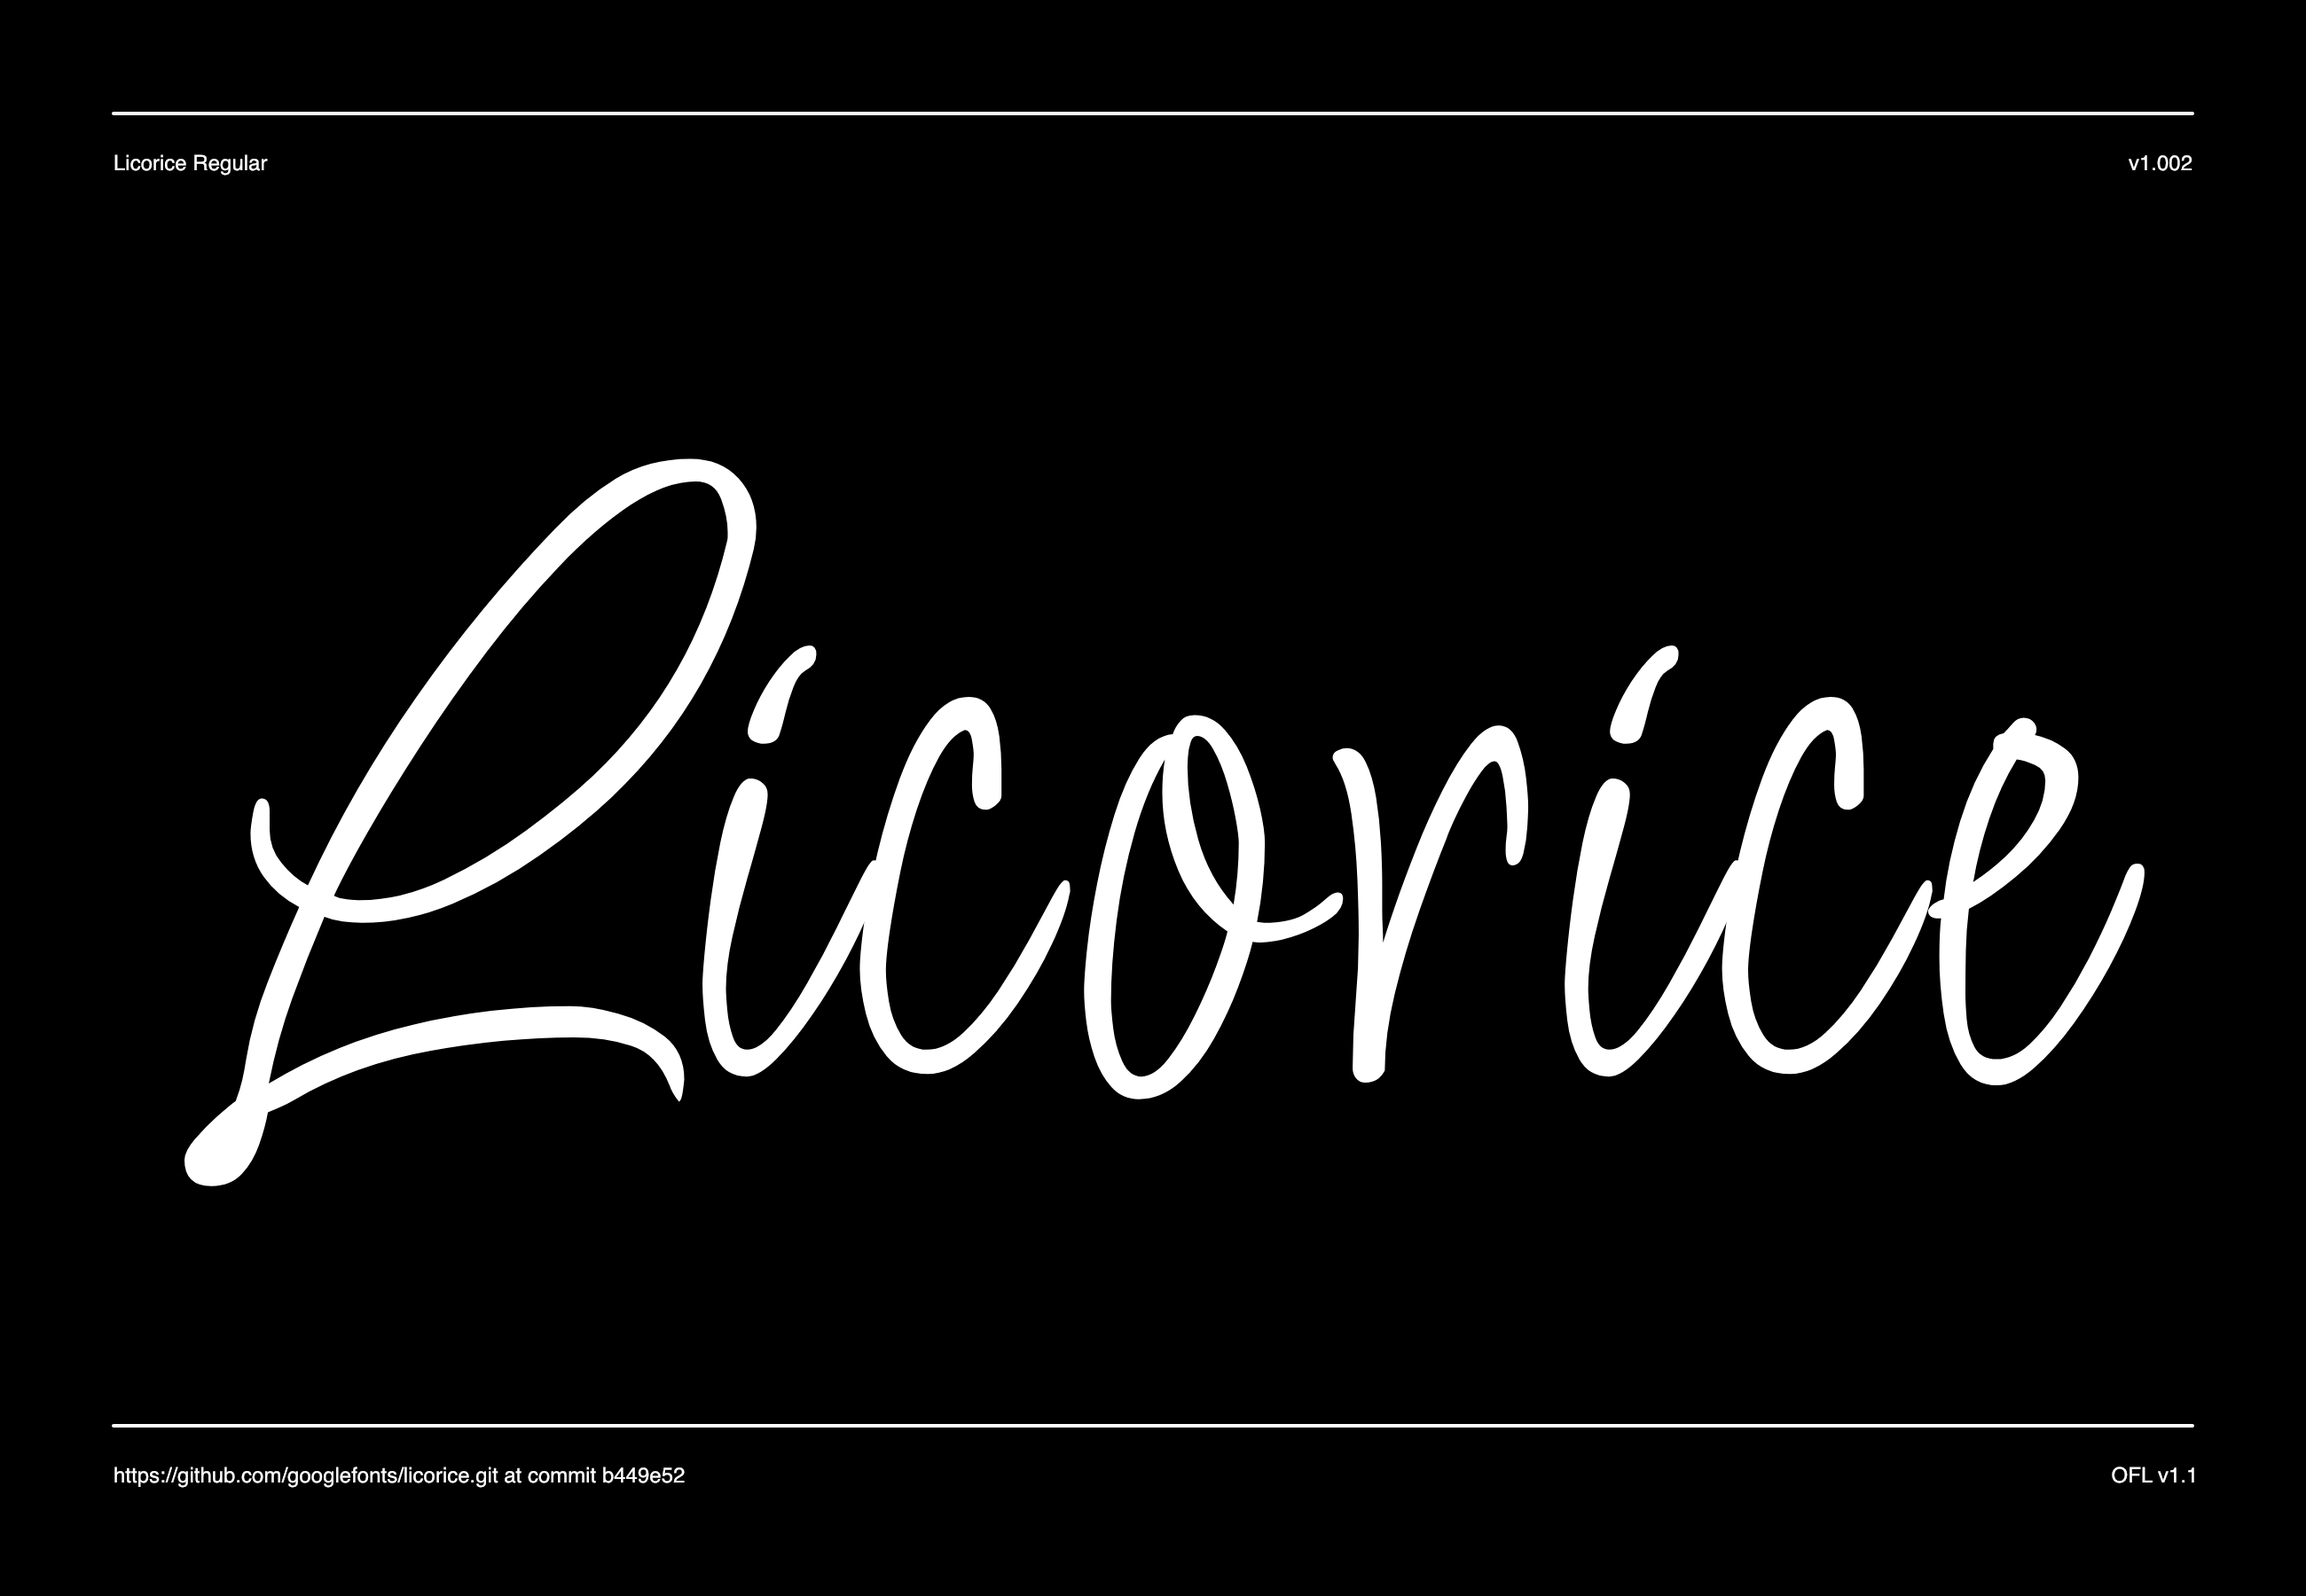
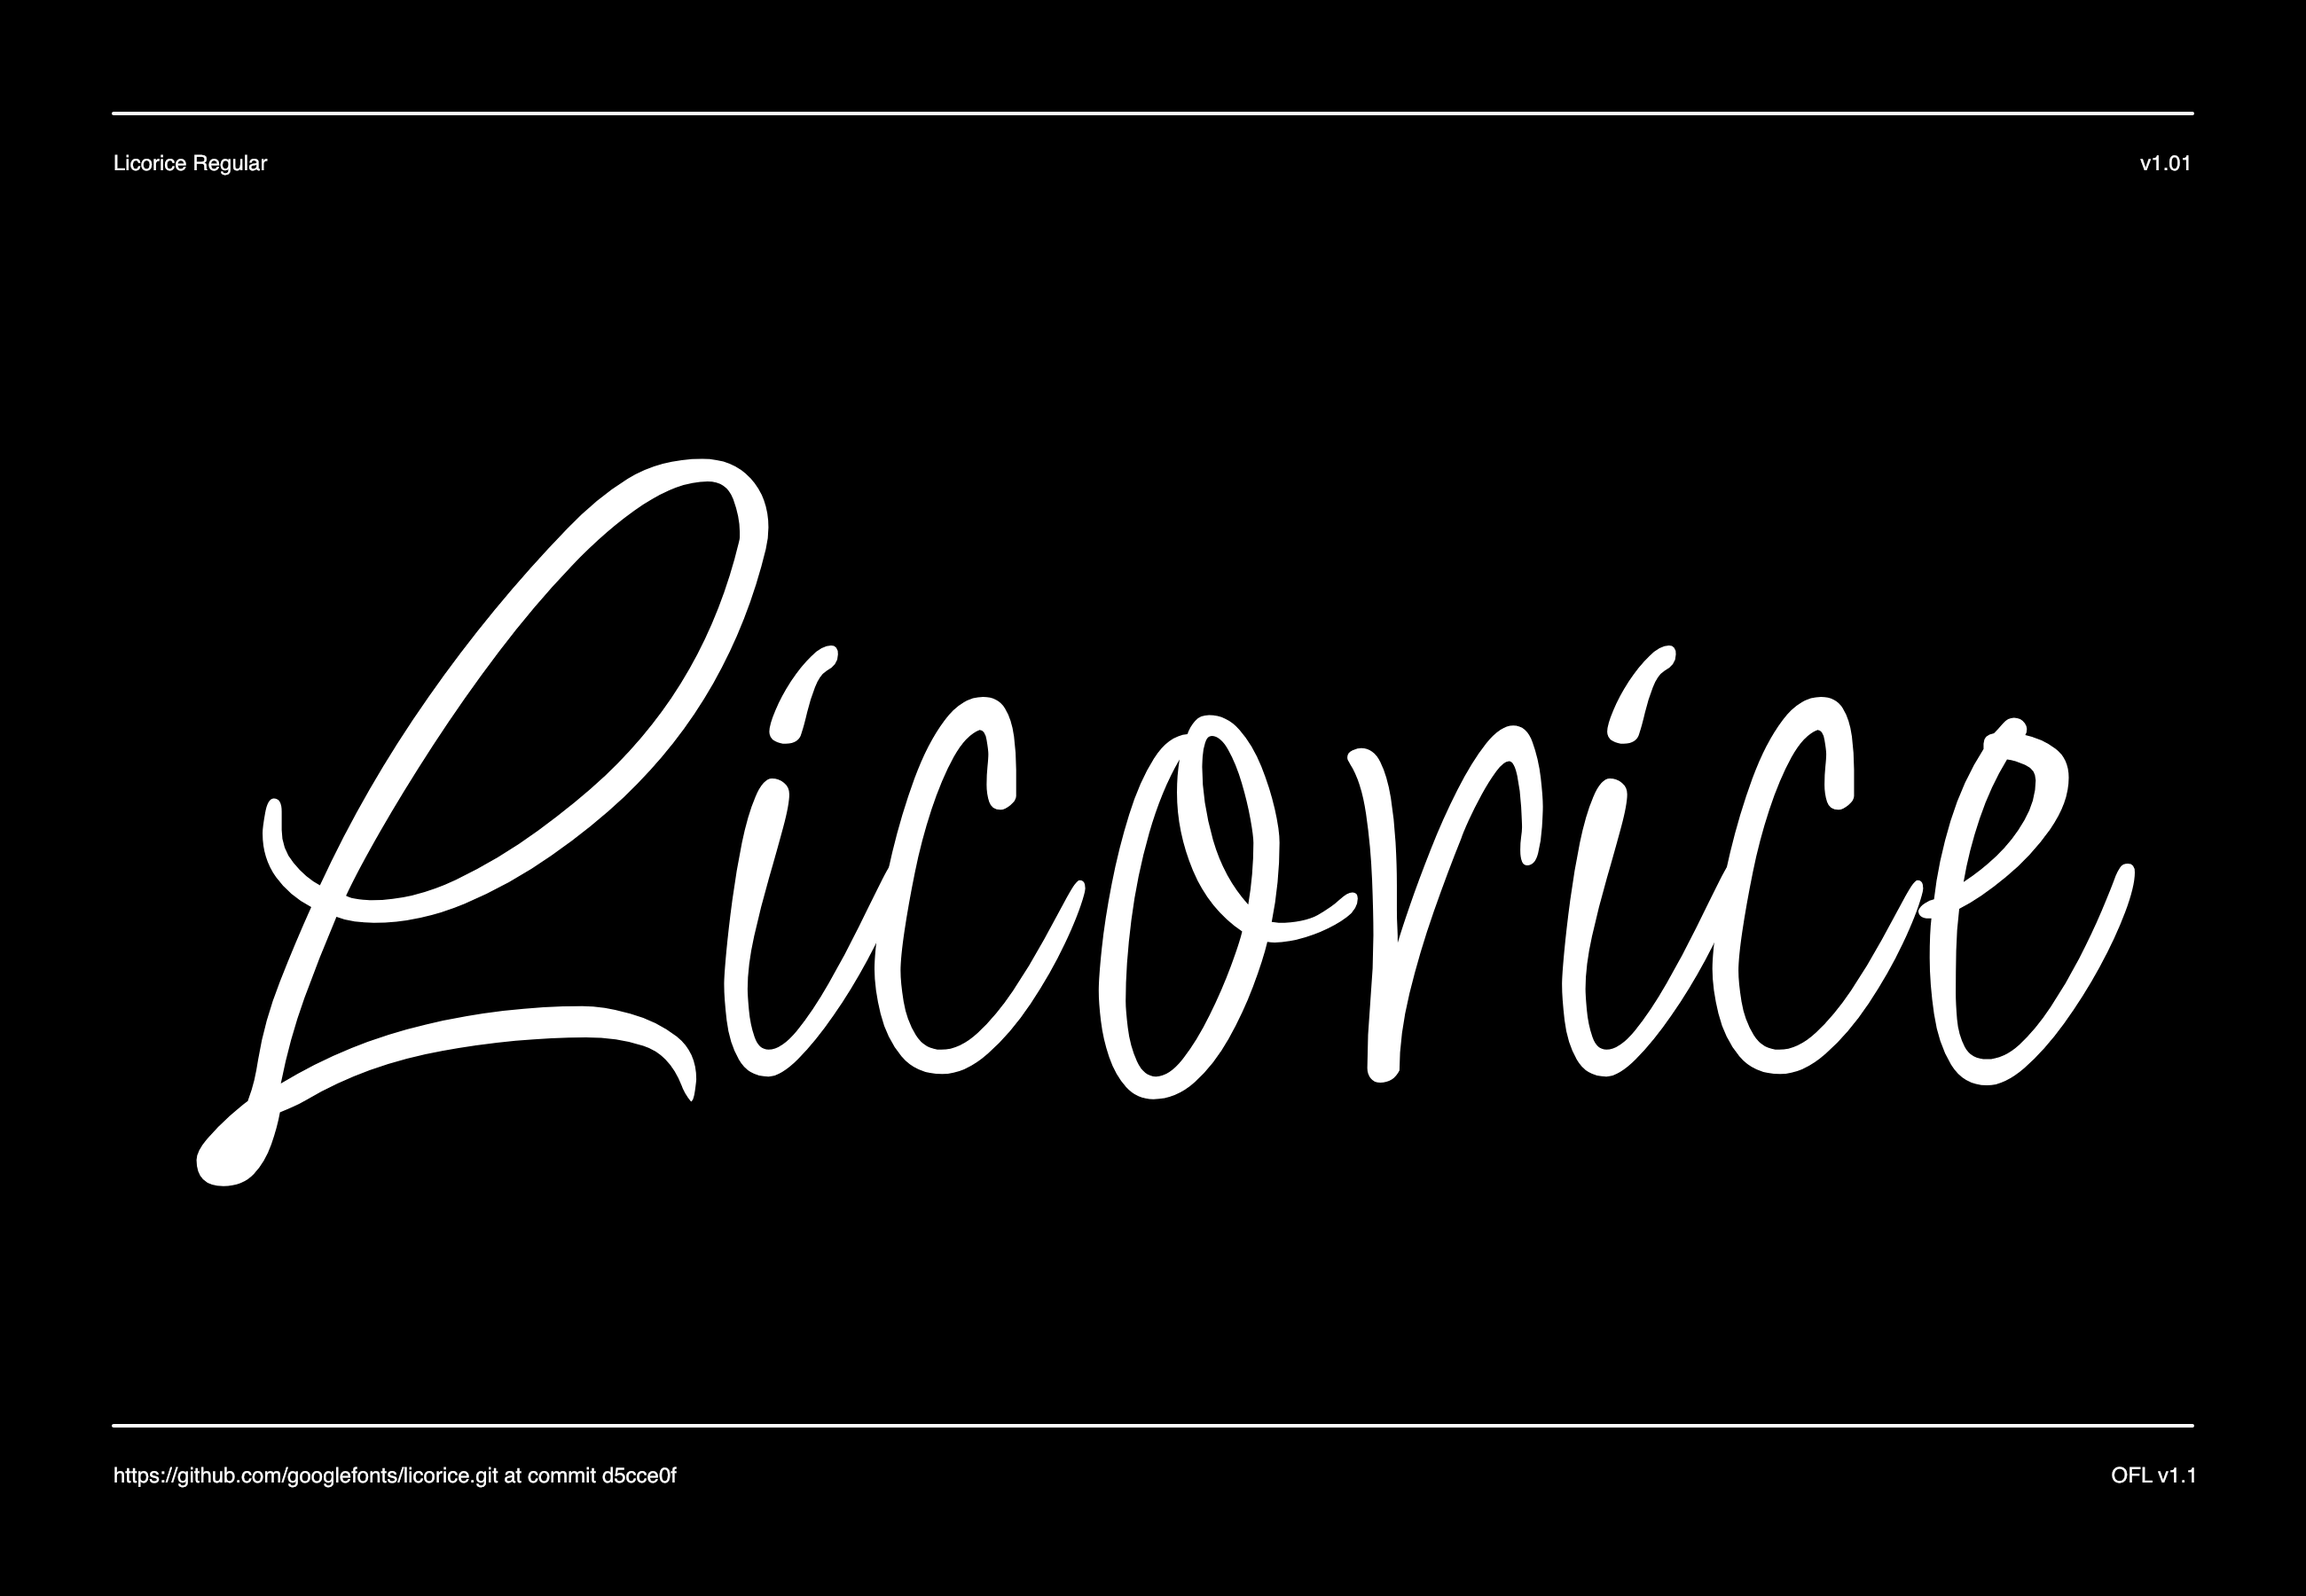
sample image updated

diff --git a/documentation/image1.py b/documentation/image1.py
@@ -22,7 +22,7 @@ AUXILIARY_FONT = "Helvetica"
 AUXILIARY_FONT_SIZE = 24
 BIG_TEXT = "Licorice"
 BIG_TEXT_FONT_SIZE = 980
-BIG_TEXT_SIDE_MARGIN = MARGIN * 2
+BIG_TEXT_SIDE_MARGIN = MARGIN * 1.8
 BIG_TEXT_BOTTOM_MARGIN = MARGIN * 4.5
 GRID_VIEW = False # Change this to "True" for a grid overlay
 
